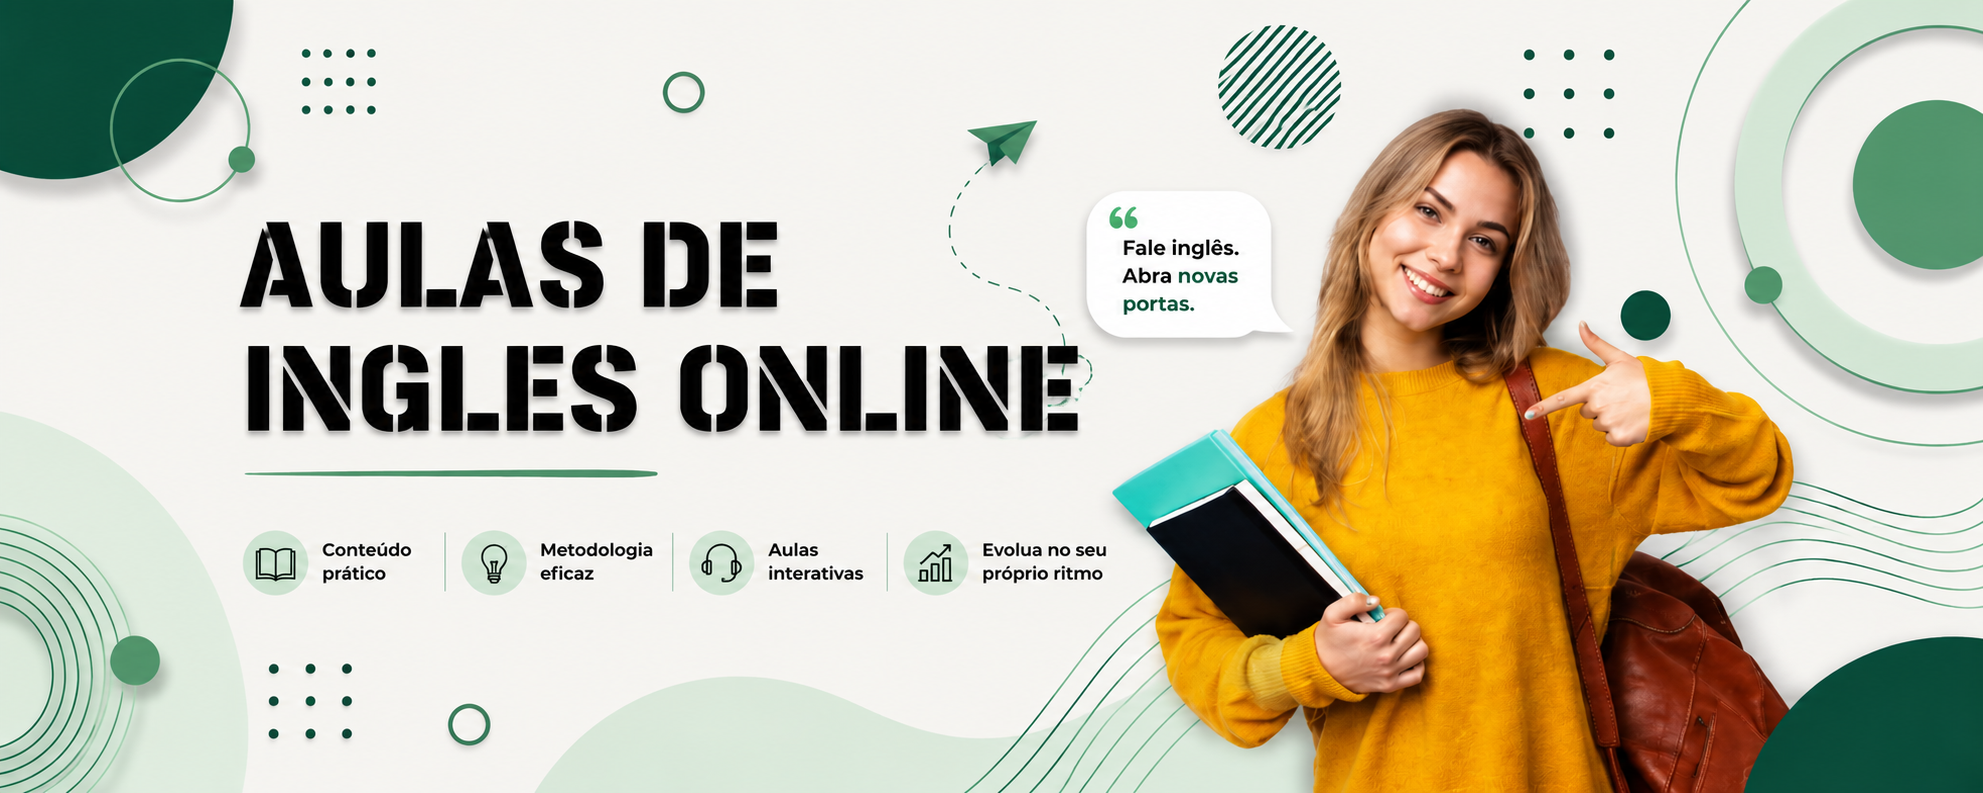
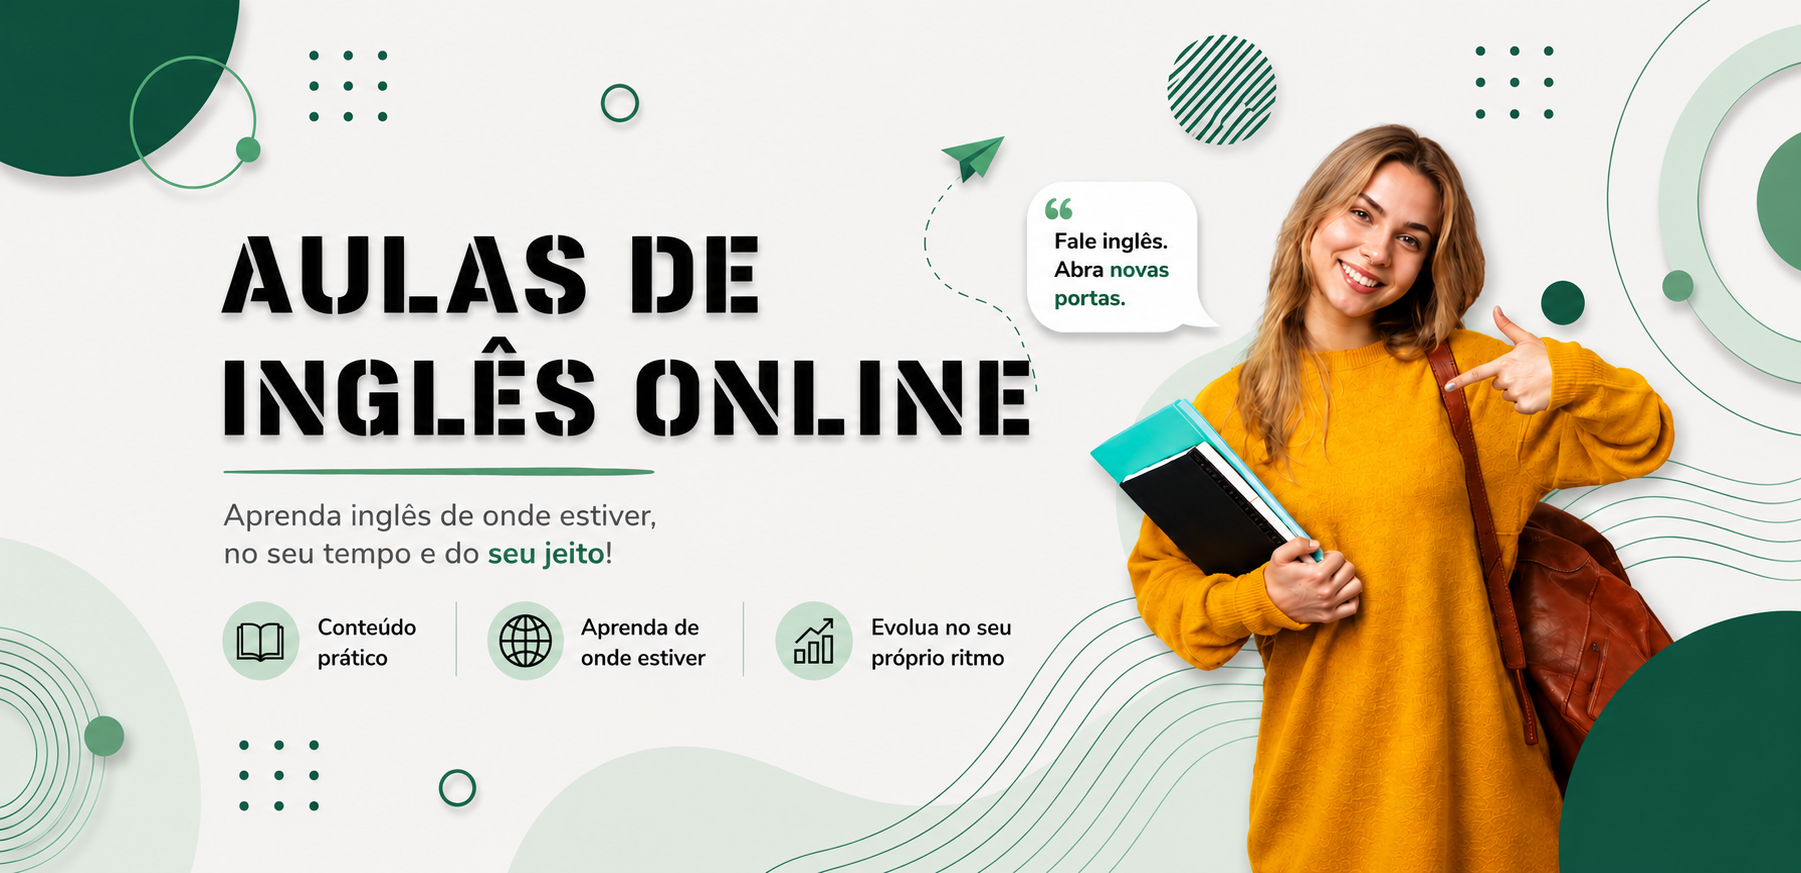
criacao do rodape

diff --git a/index.html b/index.html
@@ -1,83 +1,141 @@
 <!DOCTYPE html>
 <html lang="pt-br">
+
 <head>
-    <meta charset="UTF-8">
-    <meta name="viewport" content="width=device-width, initial-scale=1.0">
-    <title>BEE INGLES</title>
-    <link rel="stylesheet" href="style/index.css">
-    <link rel="preconnect" href="https://fonts.googleapis.com">
-    <link rel="preconnect" href="https://fonts.gstatic.com" crossorigin>
-    <link href="https://fonts.googleapis.com/css2?family=Saira:ital,wght@0,100..900;1,100..900&display=swap" rel="stylesheet">
+  <meta charset="UTF-8">
+  <meta name="viewport" content="width=device-width, initial-scale=1.0">
+  <title>BEE INGLES</title>
+  <link rel="stylesheet" href="style/index.css">
+  <link rel="preconnect" href="https://fonts.googleapis.com">
+  <link rel="preconnect" href="https://fonts.gstatic.com" crossorigin>
+  <link href="https://fonts.googleapis.com/css2?family=Saira:ital,wght@0,100..900;1,100..900&display=swap"
+    rel="stylesheet">
 </head>
+
 <body>
- <header>
-     <div class="topo">
-         <!-- Logo do site --> 
-        <div class="logo">
+
+  <header>
+    <div class="topo">
+      <!-- Logo do site -->
+      <div class="logo">
         <img src="assets/logo.png" alt="Logo do BEE INGLES">
-        </div>
-        <!-- CAIXAS DE PESQUISA -->
-        <div class="caixa-de-pesquisa">
+      </div>
+      <!-- CAIXAS DE PESQUISA -->
+      <div class="caixa-de-pesquisa">
         <input type="text" placeholder="what would you like to learn today?">
         <img src="assets/lupa 128.png" alt="Lupa de pesquisa">
-        </div> 
-         <!-- -->
-        <div class="icones">
-            <a href="">
-            <img src="assets/user.png" alt="login">
-            <small>Olá aluno(a)</small>
-            <p>ENTRAR</p>
-           </a>
-           <a href="">
-            <img src="assets/notificacao pixel.png" alt="notification">
-            <p>NOTIFICAÇÃO</p>
-              </a>
-            </div> 
-     </div>
-     
-     
-     <!-- Menu de navegação -->
+      </div>
+      <!-- -->
+      <div class="icones">
+        <a href="">
+          <img src="assets/user.png" alt="login">
+          <small>Olá aluno(a)</small>
+          <p>ENTRAR</p>
+        </a>
+        <a href="">
+          <img src="assets/notificacao pixel.png" alt="notification">
+          <p>NOTIFICAÇÃO</p>
+        </a>
+      </div>
+    </div>
+
+
+    <!-- Menu de navegação -->
     <nav class="menu">
-        <a id="idhome" href="#">Home</a>
-    <a href="#"a>Nivel</a>
-        <a href="#">Blog</a>
-        <a href="#">Topicos</a>
-        <a href="#"a>Exercicios </a>
-        <a href="#"a>Teste de Nivel</a>
+      <a id="idhome" href="#">Home</a>
+      <a href="#" a>Nivel</a>
+      <a href="#">Blog</a>
+      <a href="#">Topicos</a>
+      <a href="#" a>Exercicios </a>
+      <a href="#" a>Teste de Nivel</a>
 
     </nav>
- </header>
+  </header>
 
- <!-- BANNER -->
+  <!-- BANNER -->
   <div class="banner">
     <div class="imagem-banner">
-      <img src="assets/banner.png" alt="Banner 1">  
+      <img src="assets/banner.png" alt="Banner 1">
     </div>
-  <div class="botoes-banner">
+    <div class="botoes-banner">
 
     </div>
-</div>
+  </div>
 
+  <!--area de ofertas -->
+  <section class="ofertas">
+    <div class="titulo ofertas">
+      <div class="textos-promocoes">
+        <h2>BEM VINDO AO BEE INGLÊS</h2>
+      </div>
 
-    
+      <div class="lista de produtos">
+        <div class=" card-produtos">
+          <img src="" alt="">
+        </div>
+      </div>
 
+      <!-- CARD DOS PRODUTOS -->
+      <div class="card-produtos">
+        <img src="assets/card pronuncia.png" alt="">
+      </div>
 
+      <div class="card-produtos">
+        <img src="assets/card vocabulario.png" alt="">
+      </div>
 
+      <div class="card-produtos">
+        <img src="assets/card grammatica.png" alt="">
+      </div>
 
+      <div class="card-produtos">
+        <img src="assets/card exterior.png" alt="">
+      </div>
 
+      <!--INICIO DO RODAPE-->
+      <footer>
+        <!--parte superior do rodape-->
+        <div class="superior">
+          <div class="coluna1">
+            <h2>BEE INGLÊS</h2>
+            <link rel="preconnect" href="https://fonts.googleapis.com">
+            <link rel="preconnect" href="https://fonts.gstatic.com" crossorigin>
+            <link
+              href="https://fonts.googleapis.com/css2?family=Saira+Stencil:ital,wght@0,100..900;1,100..900&family=Saira:ital,wght@0,100..900;1,100..900&display=swap"
+              rel="stylesheet">
 
+          </div>
 
+          <div class="coluna2">
+            
+              <h2>REDES SOCIAS</h2>
+              <!-- CRIANDO UMA LISTA-->
+              <ul>
+                <li><a href="">WHATSAPP</a> <img src="assets/whatsapp.png">  </li>
+                <li><a href="">(63) 9302-3352</a> </li>
+                
+              </ul>
+              <ul>
+                
+                <li><a href="">INSTAGRAM</a> <img src="assets/instagram.png"> </li>
+                <li><a href="">@BEEINGLES</a> </li><!--CRIAR UMA CONTA PRA ELE-->
+                
+              </ul>
+              <ul>
+                
+                <li><a href="">G-MAIL</a>  <img src="assets/mail.png"></li>
+                <li><a href="">DFG@MAIL</a> </li> <!--CRIAR UM EMAIL PRA ISSO TAMBEM-->
+              </ul>
 
+            </div>
 
+          </div class="inferior">
+          <!--parte inferior-->
+          <div>
 
-
-
-
-
-
-
-
-
+          </div>
+      </footer>
 
 </body>
+
 </html>

diff --git a/style/index.css b/style/index.css
@@ -139,7 +139,7 @@ nav a {
 nav a:hover {
     color: #000000; /* cor do texto dos links ao passar o mouse */
     transition: color 0.5s ease; /* adiciona uma transição suave para a mudança de cor */
-    background: #b1d4c300; /* cor de fundo ao passar o mouse nos links do nav */
+    background: #d5e9df; /* cor de fundo ao passar o mouse nos links do nav */
     border-radius: 10px; /* borda arredondada ao passar o mouse nos links do nav */
     padding: 5.5px; /* espaçamento interno do link ao passar o mouse */
     backdrop-filter: blur(0px) saturate(60%);
@@ -148,3 +148,93 @@ nav a:hover {
     border-radius: 20px;
     box-shadow: 10px 4px 12px rgba(255, 254, 254, 0.719);
     }
+    /*configurando a area de ofertas*/
+.ofertas{
+    font-family: "Saira", sans-serif;
+    color: #000000;
+}
+.titulo-ofertas{
+    font-family: "Saira", sans-serif;
+    grid-template-columns: 40px; /* define uma coluna para o título */
+    grid-template-rows: auto auto; /* define uma linha para o título */
+    display: grid; /* exibe os elementos em grade */
+}
+.titulo-ofertas h2{
+    font-size: 24px; /* ajuste o tamanho do título conforme necessário */
+    color: #000000; /* cor do título */
+    grid-column: 1; /* define a coluna para o título */
+    grid-row: 1; /* define a linha para o título */
+    margin: 0; /* remove as margens do título */
+   }
+   
+   /*cards por aqui*/
+    .card-produtos {
+    width: 38%;
+    height: 48%;
+    background-color: #f1f1f1;
+    border: 1px solid #ccc;
+    border-radius: 10px;
+
+    padding: 10px;
+    margin-left: 100px;
+    grid-row: 1/2;
+    }
+
+
+
+
+
+   /*RODAPE*/
+   footer{
+    background-color: #64997f;
+    color: #EFEBBB;
+    font: "Saira", sans-serif;
+    font-family: "Saira Stencil", sans-serif;
+    padding: 20px;
+    box-shadow: 20px 8px 12px #000000;
+   }
+  
+    .superior{
+        display: flex;/*permite flexibilidae entre as colunas*/
+        gap: 50px; /*espacamento entre as divs*/
+        justify-content: space-between; /* espacamento igual entre as divs, colunas etc.*/
+        flex-wrap: wrap;
+    }
+
+    .inferior{
+        display: flex;/*permite flexibilidae entre as colunas*/
+        gap: 10px; /*espacamento entre as divs*/
+        justify-content: space-between; /* espacamento igual entre as divs, colunas etc.*/
+        flex-wrap: wrap;
+        align-items: center;
+    }
+.coluna1,.coluna2{
+ flex:1; /*que cada coluna ocupe apenas um espaco*/
+
+}
+   .superior h2{
+    font-size: 18px;
+    margin-left: 640px ;
+   }
+   .superior p{
+    font-size: 10px;
+   }
+   .superior a{
+    color: #EFEBBB;
+    font-size: 18px;
+    text-decoration: none;
+    
+    margin-left: 640px;
+   }
+   .superior ul{
+    text-decoration: none;
+    list-style: none;
+    padding: 0px
+   }
+   .superior img{
+    height:auto;
+    width: 30px;
+    margin-left: 30px ;
+    align-items: baseline;
+     }
+   
